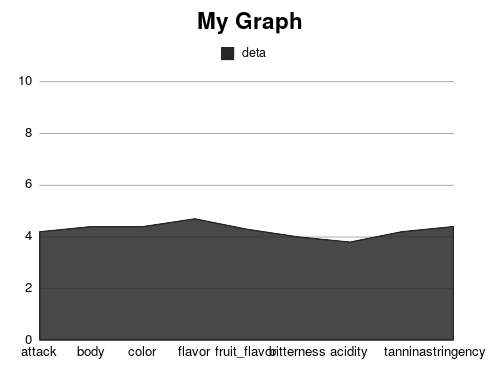
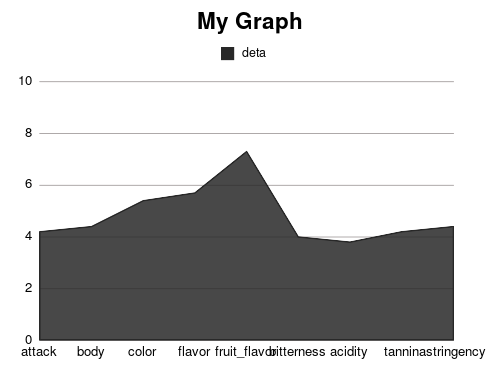
Herock

Changed region(s): [[0.18, 0.4107, 0.6, 0.6453]]

diff --git a/app/assets/javascripts/modules/butler.js b/app/assets/javascripts/modules/butler.js
@@ -39,7 +39,6 @@ $(function() {
         let html_finite = buildHTML_finite(answer_param);
         $('.Chat__MainField').append(html_finite);
         $('.Chat__MainField').animate({ scrollTop: $('.Chat__MainField')[0].scrollHeight});
-        console.log(answer_param);
         return
       }
       quiz();

diff --git a/config/unicorn.rb b/config/unicorn.rb
@@ -1,55 +1,55 @@
-#サーバ上でのアプリケーションコードが設置されているディレクトリを変数に入れておく
-app_path = File.expand_path('../../../', __FILE__)
+# #サーバ上でのアプリケーションコードが設置されているディレクトリを変数に入れておく
+# app_path = File.expand_path('../../../', __FILE__)
 
-#アプリケーションサーバの性能を決定する
-worker_processes 1
+# #アプリケーションサーバの性能を決定する
+# worker_processes 1
 
-#アプリケーションの設置されているディレクトリを指定
-working_directory "#{app_path}/current"
+# #アプリケーションの設置されているディレクトリを指定
+# working_directory "#{app_path}/current"
 
-#Unicornの起動に必要なファイルの設置場所を指定
-pid "#{app_path}/shared/tmp/pids/unicorn.pid"
+# #Unicornの起動に必要なファイルの設置場所を指定
+# pid "#{app_path}/shared/tmp/pids/unicorn.pid"
 
-#ポート番号を指定
-listen "#{app_path}/shared/tmp/sockets/unicorn.sock"
+# #ポート番号を指定
+# listen "#{app_path}/shared/tmp/sockets/unicorn.sock"
 
-#エラーのログを記録するファイルを指定
-stderr_path "#{app_path}/shared/log/unicorn.stderr.log"
+# #エラーのログを記録するファイルを指定
+# stderr_path "#{app_path}/shared/log/unicorn.stderr.log"
 
-#通常のログを記録するファイルを指定
-stdout_path "#{app_path}/shared/log/unicorn.stdout.log"
+# #通常のログを記録するファイルを指定
+# stdout_path "#{app_path}/shared/log/unicorn.stdout.log"
 
-#Railsアプリケーションの応答を待つ上限時間を設定
-timeout 60
+# #Railsアプリケーションの応答を待つ上限時間を設定
+# timeout 60
 
-#以下は応用的な設定なので説明は割愛
+# #以下は応用的な設定なので説明は割愛
 
-preload_app true
-GC.respond_to?(:copy_on_write_friendly=) && GC.copy_on_write_friendly = true
+# preload_app true
+# GC.respond_to?(:copy_on_write_friendly=) && GC.copy_on_write_friendly = true
 
-check_client_connection false
+# check_client_connection false
 
-run_once = true
+# run_once = true
 
-before_fork do |server, worker|
-  defined?(ActiveRecord::Base) &&
-    ActiveRecord::Base.connection.disconnect!
+# before_fork do |server, worker|
+#   defined?(ActiveRecord::Base) &&
+#     ActiveRecord::Base.connection.disconnect!
 
-  if run_once
-    run_once = false # prevent from firing again
-  end
+#   if run_once
+#     run_once = false # prevent from firing again
+#   end
 
-  old_pid = "#{server.config[:pid]}.oldbin"
-  if File.exist?(old_pid) && server.pid != old_pid
-    begin
-      sig = (worker.nr + 1) >= server.worker_processes ? :QUIT : :TTOU
-      Process.kill(sig, File.read(old_pid).to_i)
-    rescue Errno::ENOENT, Errno::ESRCH => e
-      logger.error e
-    end
-  end
-end
+#   old_pid = "#{server.config[:pid]}.oldbin"
+#   if File.exist?(old_pid) && server.pid != old_pid
+#     begin
+#       sig = (worker.nr + 1) >= server.worker_processes ? :QUIT : :TTOU
+#       Process.kill(sig, File.read(old_pid).to_i)
+#     rescue Errno::ENOENT, Errno::ESRCH => e
+#       logger.error e
+#     end
+#   end
+# end
 
-after_fork do |_server, _worker|
-  defined?(ActiveRecord::Base) && ActiveRecord::Base.establish_connection
-end
+# after_fork do |_server, _worker|
+#   defined?(ActiveRecord::Base) && ActiveRecord::Base.establish_connection
+# end

diff --git a/config/deploy.rb b/config/deploy.rb
@@ -1,34 +1,34 @@
-# config valid only for current version of Capistrano
-# capistranoのバージョンを記載。固定のバージョンを利用し続け、バージョン変更によるトラブルを防止する
-lock '3.14.0'
+# # config valid only for current version of Capistrano
+# # capistranoのバージョンを記載。固定のバージョンを利用し続け、バージョン変更によるトラブルを防止する
+# lock '3.14.0'
 
-# Capistranoのログの表示に利用する
-set :application, 'majordone'
+# # Capistranoのログの表示に利用する
+# set :application, 'majordone'
 
-# どのリポジトリからアプリをpullするかを指定する
-set :repo_url,  'git@github.com:Nagisa9029/majordone.git'
+# # どのリポジトリからアプリをpullするかを指定する
+# set :repo_url,  'git@github.com:Nagisa9029/majordone.git'
 
-# バージョンが変わっても共通で参照するディレクトリを指定
-set :linked_dirs, fetch(:linked_dirs, []).push('log', 'tmp/pids', 'tmp/cache', 'tmp/sockets', 'vendor/bundle', 'public/system', 'public/uploads')
+# # バージョンが変わっても共通で参照するディレクトリを指定
+# set :linked_dirs, fetch(:linked_dirs, []).push('log', 'tmp/pids', 'tmp/cache', 'tmp/sockets', 'vendor/bundle', 'public/system', 'public/uploads')
 
-set :rbenv_type, :user
-set :rbenv_ruby, '2.6.5' #カリキュラム通りに進めた場合、2.6.5です
+# set :rbenv_type, :user
+# set :rbenv_ruby, '2.6.5' #カリキュラム通りに進めた場合、2.6.5です
 
-# どの公開鍵を利用してデプロイするか
-set :ssh_options, auth_methods: ['publickey'],
-                  keys: ['~/.ssh/majordome.pem）>'] 
+# # どの公開鍵を利用してデプロイするか
+# set :ssh_options, auth_methods: ['publickey'],
+#                   keys: ['~/.ssh/majordome.pem）>'] 
 
-# プロセス番号を記載したファイルの場所
-set :unicorn_pid, -> { "#{shared_path}/tmp/pids/unicorn.pid" }
+# # プロセス番号を記載したファイルの場所
+# set :unicorn_pid, -> { "#{shared_path}/tmp/pids/unicorn.pid" }
 
-# Unicornの設定ファイルの場所
-set :unicorn_config_path, -> { "#{current_path}/config/unicorn.rb" }
-set :keep_releases, 5
+# # Unicornの設定ファイルの場所
+# set :unicorn_config_path, -> { "#{current_path}/config/unicorn.rb" }
+# set :keep_releases, 5
 
-# デプロイ処理が終わった後、Unicornを再起動するための記述
-after 'deploy:publishing', 'deploy:restart'
-namespace :deploy do
-  task :restart do
-    invoke 'unicorn:restart'
-  end
-end
+# # デプロイ処理が終わった後、Unicornを再起動するための記述
+# after 'deploy:publishing', 'deploy:restart'
+# namespace :deploy do
+#   task :restart do
+#     invoke 'unicorn:restart'
+#   end
+# end

diff --git a/app/controllers/roots_controller.rb b/app/controllers/roots_controller.rb
@@ -37,8 +37,8 @@ class RootsController < ApplicationController
     @blancParame.sweetness = blanc_parame[:sweetness]
     @blancParame.acidity = blanc_parame[:acidity]
     @blancParame.taste = blanc_parame[:taste]
-    # @blancParame.score_image = File.open('./app/assets/images/user_blanc_graph.png')
-    @blancParame.score_image = File.open('./public/assets/images/user_blanc_graph.png')
+    @blancParame.score_image = File.open('./app/assets/images/user_blanc_graph.png')
+    ## @blancParame.score_image = File.open('./public/assets/images/user_blanc_graph.png')
     @blancParame.save
 
     rouge_parame = RougeParame.input(str)
@@ -52,8 +52,8 @@ class RootsController < ApplicationController
     @rougeParame.acidity = rouge_parame[:acidity]
     @rougeParame.tannin = rouge_parame[:tannin]
     @rougeParame.astringency = rouge_parame[:astringency]
-    # @rougeParame.score_image = File.open('./app/assets/images/user_rouge_graph.png')
-    @rougeParame.score_image = File.open('./public/assets/images/user_rouge_graph.png')
+    @rougeParame.score_image = File.open('./app/assets/images/user_rouge_graph.png')
+    ## @rougeParame.score_image = File.open('./public/assets/images/user_rouge_graph.png')
     @rougeParame.save
 
     sparkling_parame = SparklingParame.input(str)
@@ -67,8 +67,8 @@ class RootsController < ApplicationController
     @sparklingParame.bitterness = sparkling_parame[:bitterness]
     @sparklingParame.acidity = sparkling_parame[:acidity]
     @sparklingParame.taste = sparkling_parame[:taste]
-    # @sparklingParame.score_image = File.open('./app/assets/images/user_sparkling_graph.png')
-    @sparklingParame.score_image = File.open('./public/assets/images/user_sparkling_graph.png')
+    @sparklingParame.score_image = File.open('./app/assets/images/user_sparkling_graph.png')
+    ## @sparklingParame.score_image = File.open('./public/assets/images/user_sparkling_graph.png')
     @sparklingParame.save
 
     redirect_to butler_root_path

diff --git a/app/controllers/wines_controller.rb b/app/controllers/wines_controller.rb
@@ -167,15 +167,15 @@ class WinesController < ApplicationController
     end
 
     g.data('data', taste)
-    # g.write("./app/assets/images/graph.png")
+    g.write("./app/assets/images/graph.png")
     # g.write("./public/assets/images/graph.png")
 
-    # image = File.open('./app/assets/images/graph.png')
+    image = File.open('./app/assets/images/graph.png')
     # image = File.open('./public/assets/images/graph.png')
-    # @wine.score_image = image
+    @wine.score_image = image
 
     if @wine.update(wine_params)
-      redirect_to edit_wine_path(@wine.id)
+      redirect_to edit_wine_path(@wine.id + 1)
     else
       render :index
     end

diff --git a/app/models/sparkling_parame.rb b/app/models/sparkling_parame.rb
@@ -267,8 +267,8 @@ class SparklingParame < ApplicationRecord
               }
 
     g.data :deta, taste_params.values
-    # g.write("./app/assets/images/user_sparkling_graph.png")
-    g.write("./public/assets/images/user_sparkling_graph.png")
+    g.write("./app/assets/images/user_sparkling_graph.png")
+    # g.write("./public/assets/images/user_sparkling_graph.png")
 
     taste_params[:user_id] = deta[0].to_i
     return taste_params

diff --git a/app/models/blanc_parame.rb b/app/models/blanc_parame.rb
@@ -289,8 +289,8 @@ class BlancParame < ApplicationRecord
               }
 
     g.data :deta, taste_params.values
-    # g.write("./app/assets/images/user_blanc_graph.png")
-    g.write("./public/assets/images/user_blanc_graph.png")
+    g.write("./app/assets/images/user_blanc_graph.png")
+    # g.write("./public/assets/images/user_blanc_graph.png")
     taste_params[:user_id] = deta[0].to_i
     return taste_params
   end

diff --git a/app/models/rouge_parame.rb b/app/models/rouge_parame.rb
@@ -277,8 +277,8 @@ class RougeParame < ApplicationRecord
               }
 
     g.data :deta, taste_params.values
-    # g.write("./app/assets/images/user_rouge_graph.png")
-    g.write("./public/assets/images/user_rouge_graph.png")
+    g.write("./app/assets/images/user_rouge_graph.png")
+    # g.write("./public/assets/images/user_rouge_graph.png")
 
     taste_params[:user_id] = deta[0].to_i
     return taste_params

diff --git a/config/deploy/production.rb b/config/deploy/production.rb
@@ -60,4 +60,4 @@
 #     # password: "please use keys"
 #   }
 	
-server '52.68.9.221', user: 'ec2-user', roles: %w{app db web}
+# server '52.68.9.221', user: 'ec2-user', roles: %w{app db web}
